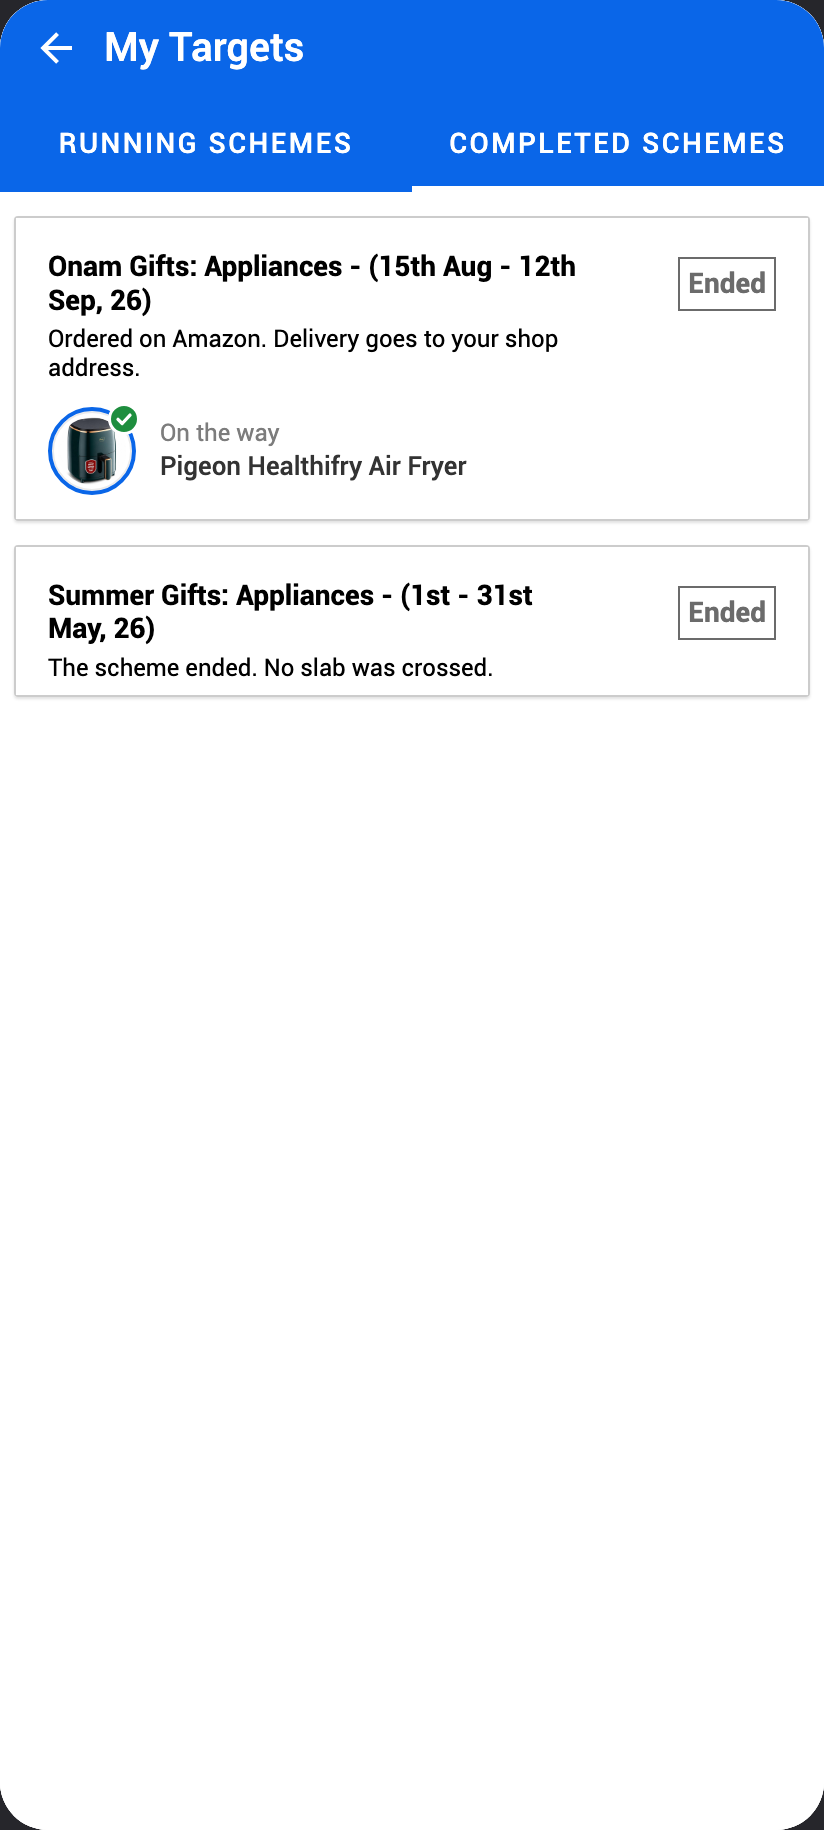
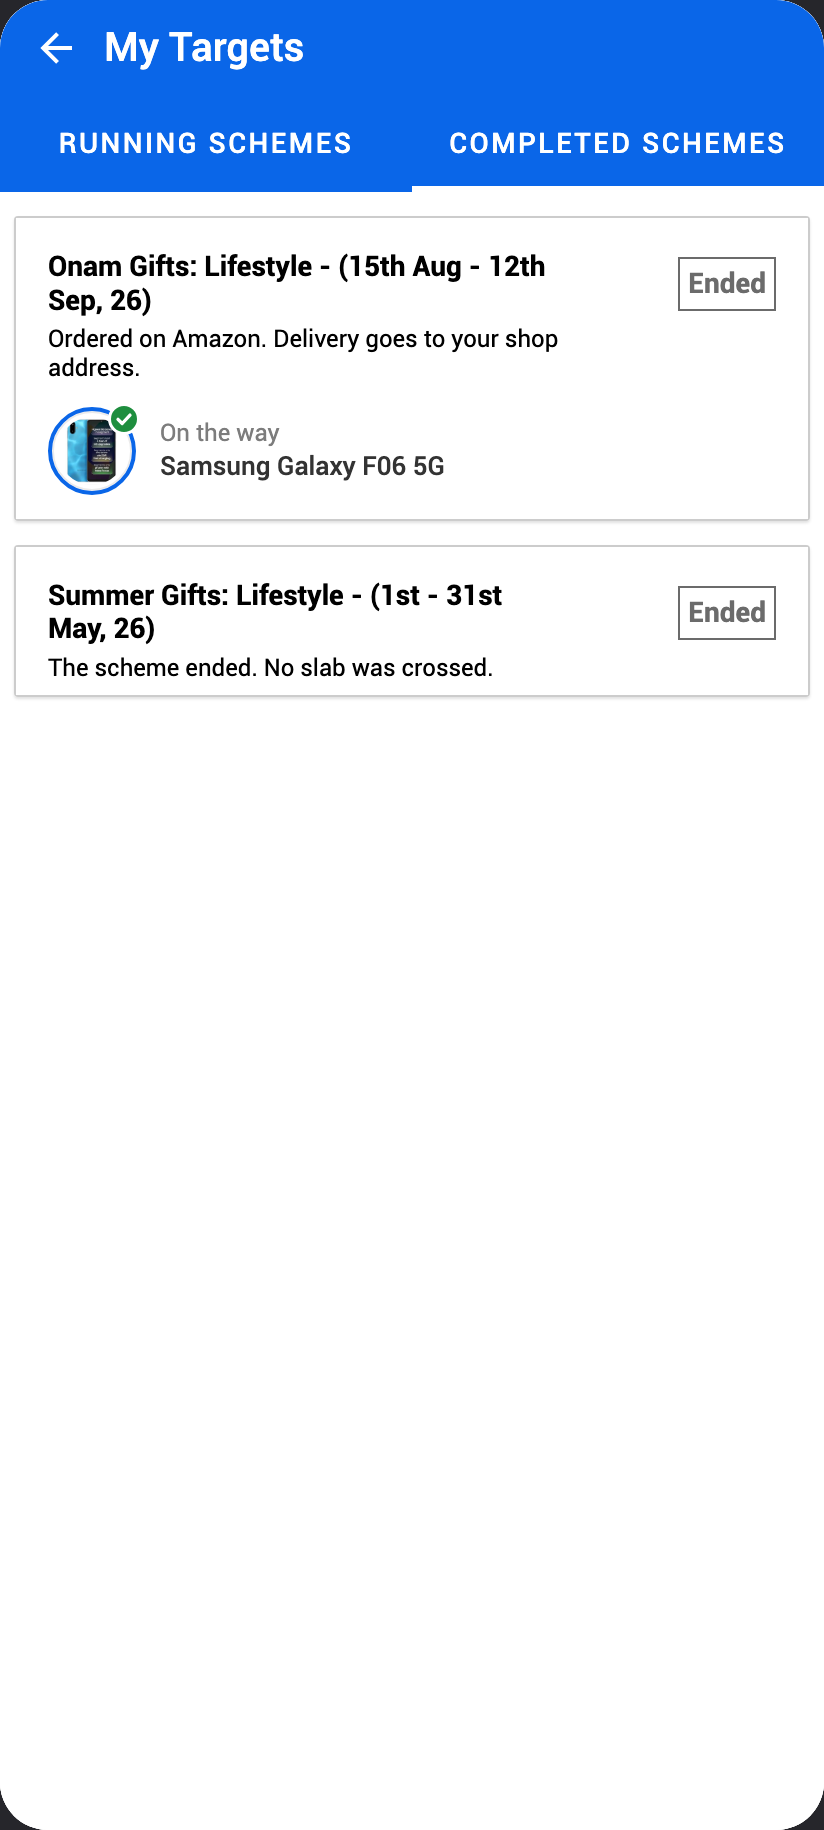
Cohort views, sheet-priced ladders, real gift photos, rail and title polish
- One customer, one scheme: four cohort views (/ship?cohort=...) carved from
  the gift sheet's own ladders; cohort names never render in customer copy
- Real Amazon photos for Kettle, Brillia Watch and Godrej Microwave, each
  verified against its product title; Bosch 207L keeps its glyph (no match)
- Rail: slab value against the line, ₹0 start label, last column flush,
  flag/value/photo/name on one exact x; runner replaces the standing man
- Passed gifts drop the grey check (dimmed photo alone says out-of-play)
- Titles wrap to two lines with an orphan guard; ₹1.2Cr crore formatting

diff --git a/src/ship/data.js b/src/ship/data.js
@@ -1,26 +1,38 @@
-// Shippable cut of the Mega Diwali campaign, per the business decision:
-//   - the big ladder is broken into MULTIPLE schemes, each with AT MOST 3 gifts
-//   - each scheme goes to the customers its BG inclusion targets, so a member sees
-//     only the schemes relevant to them
-// This member is targeted with two running schemes carved from the Lifestyle ladder:
-// an appliances scheme (2L/5L/10L) and a bumper scheme for the big slabs (20L/30L/40L).
-// Each scheme tracks its own scope, so the two current values differ.
+// Shippable cut, per the business decision:
+//   - ONE customer maps to ONE running scheme. Targeting picks the scheme whose slabs
+//     fit the customer's buying, so a small shopkeeper sees a ladder up to ₹1L and a
+//     large one sees ₹20L-₹40L.
+//   - Each scheme has AT MOST 3 gifts.
+//   - The COHORT IS A TARGETING ARTIFACT, NEVER CUSTOMER-FACING COPY. No card ever
+//     says "Starter": every customer just sees "Diwali Gifts: Appliances" with slabs
+//     and gifts sized to them.
+//
+// Four demo cohorts, one view each (/ship?cohort=...), carved from the campaign's own
+// gift sheet ("Final Working for Mega Diwali Scheme.xlsx", Final Gift Summary): the
+// slab-to-gift pricing is the sheet's, never invented here. Starter takes the
+// Electronics ladder's low end; the other three are consecutive windows of the
+// Lifestyle ladder up to the iPhone 17 (a 2-gift ladder, which the layout allows).
+// Every cohort carries the same journey: one running Diwali scheme, the announced New
+// Year scheme, and a history of one won-and-ordered plus one missed scheme. The
+// running states differ on purpose, so the four views also demo LIVE, EARNED and
+// NEAR_SLAB without inventing extra schemes.
 import { giftSchemeNode, LADDERS, NOW } from '../gifts/data';
 import { C } from '../theme';
 import { SOLV } from '../gifts/solv';
 
 const L = 100000;
-const LIFESTYLE = LADDERS[0];
 
-// A scheme's scope label rides on a ladder copy; the tiers stay the campaign's own.
-const scoped = (label) => ({ key: 'lifestyle', label, tiers: LIFESTYLE.tiers });
+// The sheet's own ladders. A cohort scheme is a slab window over one of them, so
+// every gift keeps the slab the sheet priced it at.
+const LIFESTYLE = { key: 'lifestyle', label: 'Lifestyle', tiers: LADDERS[0].tiers };
+const ELECTRONICS = { key: 'electronics', label: 'Electronics', tiers: LADDERS[1].tiers };
 
-function scheme({ id, name, windowLabel, scope, slabs, currentValue, included, excluded = [], now = NOW, fulfilment = {}, startTime, endTime, startLabel, endLabel }) {
+function scheme({ id, name, windowLabel, ladder, slabs, currentValue, included, excluded = [], now = NOW, fulfilment = {}, startTime, endTime, startLabel, endLabel }) {
   const node = giftSchemeNode({
     id,
     name,
     windowLabel,
-    ladder: scoped(scope),
+    ladder,
     slabsInLakhs: slabs,
     currentValue,
     now,
@@ -37,76 +49,119 @@ function scheme({ id, name, windowLabel, scope, slabs, currentValue, included, e
   return { node, included, excluded };
 }
 
-export const SHIP_RUNNING = [
-  scheme({
-    id: 'SHIP-DIWALI-APPL',
-    name: 'Diwali Gifts',
-    windowLabel: '1st Oct - 9th Nov, 26',
-    scope: 'Appliances',
-    slabs: [2, 5, 10],
-    currentValue: 6.4 * L,
-    included: ['Home & Kitchen Appliances'],
-    excluded: ['Consumer Electronics'],
-  }),
-  scheme({
-    id: 'SHIP-DIWALI-BUMPER',
-    name: 'Diwali Bumper',
-    windowLabel: '1st Oct - 9th Nov, 26',
-    scope: 'All Products',
-    slabs: [20, 30, 40],
-    currentValue: 3.1 * L,
-    included: ['All Products'],
-    excluded: ['Sugar', 'Edible Oil'],
-  }),
-];
+// One cohort's full journey at its own scale.
+function cohortJourney({ key, ladder, slabs, running, onam, summer, included, excluded = [] }) {
+  const shared = { ladder, slabs, included, excluded };
+  return {
+    running: [
+      scheme({
+        ...shared,
+        id: `SHIP-${key}-DIWALI`,
+        name: 'Diwali Gifts',
+        windowLabel: '1st Oct - 9th Nov, 26',
+        currentValue: running,
+      }),
+      scheme({
+        ...shared,
+        id: `SHIP-${key}-NEWYEAR`,
+        name: 'New Year Gifts',
+        windowLabel: '15th Nov - 31st Dec, 26',
+        currentValue: 0,
+        startTime: Date.UTC(2026, 10, 15),
+        endTime: Date.UTC(2026, 11, 31),
+        startLabel: '15 Nov 2026',
+        endLabel: '31 Dec 2026',
+      }),
+    ],
+    completed: [
+      scheme({
+        ...shared,
+        id: `SHIP-${key}-ONAM`,
+        name: 'Onam Gifts',
+        windowLabel: '15th Aug - 12th Sep, 26',
+        currentValue: onam,
+        startTime: Date.UTC(2026, 7, 15),
+        endTime: Date.UTC(2026, 8, 12),
+        startLabel: '15 Aug 2026',
+        endLabel: '12 Sep 2026',
+        fulfilment: { orderedAt: Date.UTC(2026, 8, 16) },
+      }),
+      scheme({
+        ...shared,
+        id: `SHIP-${key}-SUMMER`,
+        name: 'Summer Gifts',
+        windowLabel: '1st - 31st May, 26',
+        currentValue: summer,
+        startTime: Date.UTC(2026, 4, 1),
+        endTime: Date.UTC(2026, 4, 31),
+        startLabel: '1 May 2026',
+        endLabel: '31 May 2026',
+      }),
+    ],
+  };
+}
 
-// An announced scheme: the window opens 15 Nov, so the list primes the customer and
-// the detail page reads as a catalogue with no amounts to act on yet.
-export const SHIP_SCHEDULED = scheme({
-  id: 'SHIP-NEWYEAR-APPL',
-  name: 'New Year Gifts',
-  windowLabel: '15th Nov - 31st Dec, 26',
-  scope: 'Appliances',
-  slabs: [2, 5, 10],
-  currentValue: 0,
-  included: ['Home & Kitchen Appliances'],
-  startTime: Date.UTC(2026, 10, 15),
-  endTime: Date.UTC(2026, 11, 31),
-  startLabel: '15 Nov 2026',
-  endLabel: '31 Dec 2026',
-});
-SHIP_RUNNING.push(SHIP_SCHEDULED);
+// The four cohorts. `label` is DEMO CHROME ONLY (drawer rows, docs); it never renders
+// inside the customer's own screens.
+export const SHIP_COHORTS = {
+  starter: {
+    label: 'Starter — ₹1L/₹2L/₹5L: Kettle, Watch, Air Fryer (Electronics ladder)',
+    ...cohortJourney({
+      key: 'STARTER',
+      ladder: ELECTRONICS,
+      slabs: [1, 2, 5],
+      running: 1.4 * L,    // EARNED: holds the kettle, ₹60,000 to the watch
+      onam: 1.2 * L,       // won the kettle, order placed
+      summer: 0.4 * L,     // ended below the first slab
+      included: ['Consumer Electronics'],
+    }),
+  },
+  growth: {
+    label: 'Growth — ₹2L/₹5L/₹10L: Mixer, Air Fryer, Soundbar',
+    ...cohortJourney({
+      key: 'GROWTH',
+      ladder: LIFESTYLE,
+      slabs: [2, 5, 10],
+      running: 6.4 * L,    // EARNED: holds the air fryer, ₹3.6L to the soundbar
+      onam: 2.3 * L,       // won the mixer, order placed
+      summer: 1.2 * L,
+      included: ['Lifestyle'],
+      excluded: ['Consumer Electronics'],
+    }),
+  },
+  established: {
+    label: 'Established — ₹15L/₹20L/₹30L: Vacuum, Phone, Fridge',
+    ...cohortJourney({
+      key: 'ESTABLISHED',
+      ladder: LIFESTYLE,
+      slabs: [15, 20, 30],
+      running: 12.8 * L,   // LIVE: nothing crossed yet, ₹2.2L to the vacuum
+      onam: 21 * L,        // won the phone, order placed
+      summer: 6 * L,
+      included: ['Lifestyle'],
+      excluded: ['Consumer Electronics'],
+    }),
+  },
+  bumper: {
+    label: 'Bumper — ₹40L/₹1.2Cr: Smart TV, iPhone 17 (2-gift ladder)',
+    ...cohortJourney({
+      key: 'BUMPER',
+      ladder: LIFESTYLE,
+      slabs: [40, 120],
+      running: 38.5 * L,   // LIVE, close: ₹1.5L to the first slab (Smart TV)
+      onam: 43 * L,        // won the Smart TV, order placed
+      summer: 12 * L,
+      included: ['Lifestyle'],
+      excluded: ['Consumer Electronics'],
+    }),
+  },
+};
 
-export const SHIP_COMPLETED = [
-  scheme({
-    id: 'SHIP-ONAM-APPL',
-    name: 'Onam Gifts',
-    windowLabel: '15th Aug - 12th Sep, 26',
-    scope: 'Appliances',
-    slabs: [2, 5, 10],
-    currentValue: 5.6 * L,
-    included: ['Home & Kitchen Appliances'],
-    startTime: Date.UTC(2026, 7, 15),
-    endTime: Date.UTC(2026, 8, 12),
-    startLabel: '15 Aug 2026',
-    endLabel: '12 Sep 2026',
-    fulfilment: { orderedAt: Date.UTC(2026, 8, 16) },
-  }),
-  scheme({
-    id: 'SHIP-SUMMER-APPL',
-    name: 'Summer Gifts',
-    windowLabel: '1st - 31st May, 26',
-    scope: 'Appliances',
-    slabs: [2, 5, 10],
-    currentValue: 1.2 * L,
-    included: ['Home & Kitchen Appliances'],
-    startTime: Date.UTC(2026, 4, 1),
-    endTime: Date.UTC(2026, 4, 31),
-    startLabel: '1 May 2026',
-    endLabel: '31 May 2026',
-  }),
-];
+export const DEFAULT_COHORT = 'established';
 
+// Route lookup across every cohort's schemes, so any card opens its detail.
 export const SHIP_BY_ID = Object.fromEntries(
-  [...SHIP_RUNNING, ...SHIP_COMPLETED].map((x) => [x.node.entityId, x])
+  Object.values(SHIP_COHORTS)
+    .flatMap((c) => [...c.running, ...c.completed])
+    .map((x) => [x.node.entityId, x])
 );

diff --git a/src/gifts/data.js b/src/gifts/data.js
@@ -29,8 +29,8 @@ export const MEMBER = { ladderKey: 'lifestyle' };
 
 // Product photos, pulled from the product pages linked in the sheet
 // (m.media-amazon.com / rukminim2.flixcart.com), stored as local assets.
-// Electronics-only gifts (kettle, watch, microwave, Bosch fridge) have no
-// image yet; those tiers fall back to the line glyph.
+// The Bosch 207 L has no verified photo (Amazon lists newer capacities only), so
+// that tier keeps its line glyph rather than wearing another fridge's picture.
 const IMG = {
   mixer: require('../../assets/gifts/mixer.jpg'),
   airfryer: require('../../assets/gifts/airfryer.jpg'),
@@ -40,6 +40,9 @@ const IMG = {
   fridge: require('../../assets/gifts/fridge.jpg'),
   tv: require('../../assets/gifts/tv.jpg'),
   iphone17: require('../../assets/gifts/iphone17.jpg'),
+  kettle: require('../../assets/gifts/kettle.jpg'),
+  watch: require('../../assets/gifts/watch.jpg'),
+  microwave: require('../../assets/gifts/microwave.jpg'),
 };
 
 // Full ladders, as in the sheet. shortName must stay short: it renders in 100dp markers.
@@ -68,11 +71,11 @@ export const LADDERS = [
     label: 'Electronics',
     scopeLine: 'Electronics products only',
     tiers: [
-      { at: 1 * L,   name: 'Pigeon Amaze Plus Electric Kettle', shortName: 'Kettle', icon: 'kettle', image: null },
-      { at: 2 * L,   name: 'Fire-Boltt Brillia Smart Watch', shortName: 'Watch',    icon: 'watch',   image: null },
+      { at: 1 * L,   name: 'Pigeon Amaze Plus Electric Kettle', shortName: 'Kettle', icon: 'kettle', image: IMG.kettle },
+      { at: 2 * L,   name: 'Fire-Boltt Brillia Smart Watch', shortName: 'Watch',    icon: 'watch',   image: IMG.watch },
       { at: 5 * L,   name: 'Pigeon Healthifry Air Fryer',   shortName: 'Air Fryer', icon: 'airfryer', image: IMG.airfryer },
       { at: 10 * L,  name: 'boAt Aavante Bar Soundbar',     shortName: 'Soundbar',  icon: 'soundbar', image: IMG.soundbar },
-      { at: 15 * L,  name: 'Godrej 20 L Solo Microwave Oven', shortName: 'Microwave', icon: 'microwave', image: null },
+      { at: 15 * L,  name: 'Godrej 20 L Solo Microwave Oven', shortName: 'Microwave', icon: 'microwave', image: IMG.microwave },
       { at: 20 * L,  name: 'Philips PowerPro Vacuum Cleaner', shortName: 'Vacuum',  icon: 'vacuum',  image: IMG.vacuum },
       { at: 30 * L,  name: 'Samsung Galaxy F06 5G',         shortName: 'Phone',     icon: 'phone',   image: IMG.phone },
       { at: 40 * L,  name: 'Bosch 207 L Refrigerator',      shortName: 'Fridge',    icon: 'fridge',  image: null },
@@ -88,6 +91,11 @@ export function lakh(v) {
   // Below a lakh the compact form reads worse than the number: "₹0.4L" and "₹0L" are
   // both harder to parse than "₹40,000" and "₹0". Fall back to the plain format.
   if (v < L) return indianPrice(v);
+  // From a crore up, the trade says crore: "₹1.2Cr", never "₹120L".
+  if (v >= 100 * L) {
+    const c = Math.round((v / (100 * L)) * 100) / 100;
+    return '₹' + String(c) + 'Cr';
+  }
   const n = Math.round((v / L) * 100) / 100;
   return '₹' + String(n) + 'L';
 }

diff --git a/src/ship/GiftMedallion.js b/src/ship/GiftMedallion.js
@@ -2,10 +2,11 @@
 // bar where a flag used to be. Reference: Shopee's task track (reward badges on the
 // bar), Ulta's tick labels. THREE states, because the scheme pays one gift and the
 // medallions must say which:
-//   won     blue ring, GREEN check, full photo. The gift going home. Exactly one
-//           green check per card; the single check quietly is the one-gift rule.
-//   passed  grey ring, grey check, photo dimmed. Crossed, then out-climbed: real,
-//           but out of play. Dimming is correct here; desire moved up the ladder.
+//   won     blue ring, GREEN check, full photo. The gift going home. The check is
+//           the card's ONLY badge, so the badge itself is the one-gift rule.
+//   passed  grey ring, photo dimmed, NO badge. Crossed, then out-climbed. Dimming
+//           alone says out-of-play; any checkmark near a gift whispers "you get
+//           this", so the passed state carries none.
 //   open    grey ring, FULL-COLOUR photo, no badge. Still worth wanting, so it is
 //           never washed out.
 // A tier without a photo falls back to its line glyph, same ring rules.
@@ -56,8 +57,8 @@ export default function GiftMedallion({ tier, state, achieved, size = 44, dark =
           style={[styles.photoOutline, { borderRadius: size / 2 }]}
         />
       </View>
-      {st !== 'open' ? (
-        <View style={[styles.badge, st === 'passed' && styles.badgePassed]}>
+      {st === 'won' ? (
+        <View style={styles.badge}>
           <Svg width={9} height={9} viewBox="0 0 12 12">
             <Path d="M2 6.2l2.8 2.8L10 3.4" stroke="#fff" strokeWidth={2.2} strokeLinecap="round" strokeLinejoin="round" fill="none" />
           </Svg>
@@ -97,5 +98,4 @@ const styles = StyleSheet.create({
     alignItems: 'center',
     justifyContent: 'center',
   },
-  badgePassed: { backgroundColor: '#ABABAB' },
 });

diff --git a/app/ship/index.js b/app/ship/index.js
@@ -12,11 +12,15 @@ import ShipSchemeCard from '../../src/ship/ShipSchemeCard';
 import { C, D, F } from '../../src/theme';
 import { SOLV } from '../../src/gifts/solv';
 import { M } from '../../src/data';
-import { SHIP_RUNNING, SHIP_COMPLETED } from '../../src/ship/data';
+import { SHIP_COHORTS, DEFAULT_COHORT } from '../../src/ship/data';
 
 export default function ShipTargets() {
   const pager = useRef(null);
   const params = useLocalSearchParams();
+  // One customer sees one scheme; ?cohort= picks whose view the demo renders.
+  // The cohort never appears inside the screen itself.
+  const cohort = SHIP_COHORTS[params.cohort] ? params.cohort : DEFAULT_COHORT;
+  const { running, completed } = SHIP_COHORTS[cohort];
   const initialTab = Number(params.tab) === 1 ? 1 : 0;
   const [tab, setTab] = useState(initialTab);
   const [pageW, setPageW] = useState(0);
@@ -79,8 +83,8 @@ export default function ShipTargets() {
         onMomentumScrollEnd={(e) => (pageW ? setTab(Math.round(e.nativeEvent.contentOffset.x / pageW)) : null)}
         style={{ flex: 1 }}
       >
-        {renderList(SHIP_RUNNING, true)}
-        {renderList(SHIP_COMPLETED)}
+        {renderList(running, true)}
+        {renderList(completed)}
       </ScrollView>
     </SafeAreaView>
   );

diff --git a/app/index.js b/app/index.js
@@ -48,7 +48,10 @@ const OTHER = [
 //                        -> /solv-schemes/states
 // The entry-point mocks stay a separate row because they sit outside both lists.
 const GIFT_FLOWS = [
-  ['SHIP: gift targets on the current UI, photo rail', '/ship'],
+  ['SHIP view: Starter cohort, ₹1L to ₹5L', '/ship?cohort=starter'],
+  ['SHIP view: Growth cohort, ₹2L to ₹10L', '/ship?cohort=growth'],
+  ['SHIP view: Established cohort, ₹15L to ₹30L', '/ship?cohort=established'],
+  ['SHIP view: Bumper cohort, ₹40L to ₹1.2Cr', '/ship?cohort=bumper'],
   ['A. Gift scheme in the current paradigm', '/gift-targets'],
   ['B. Solv My Schemes, Mega Diwali and parallel schemes', '/solv-schemes'],
   ['C. Entry points (banner, PDP, cart, push, WhatsApp)', '/mega-diwali/entries'],

diff --git a/ship-handoff/README-HANDOFF.md b/ship-handoff/README-HANDOFF.md
@@ -72,11 +72,16 @@ Colour, one meaning each:
 - Grey: not yet, or past tense.
 
 Medallion states (the scheme pays ONE gift; the medallions must say which):
-- won     highest crossed slab: blue ring, GREEN check, full photo. Exactly one green
-          check per card; the single check is the one-gift rule made visible.
-- passed  crossed, then out-climbed: grey ring, grey check, photo dimmed to 50%.
+- won     highest crossed slab: blue ring, GREEN check, full photo. The check is the
+          card's ONLY badge, so the badge itself is the one-gift rule.
+- passed  crossed, then out-climbed: grey ring, photo dimmed to 50%, NO badge.
+          Any checkmark near a gift whispers "you get this", so passed carries none.
 - open    not yet crossed: grey ring, FULL-COLOUR photo, no badge. Never washed out.
-Two green checks on one card would read as "you get both" and become a support call.
+Two checks on one card would read as "you get both" and become a support call.
+
+Cohort mapping: ONE customer maps to ONE running scheme, slabs priced to the
+customer (demo views: /ship?cohort=starter|growth|established|bumper). The cohort
+name is a targeting artifact and never renders in customer-facing copy.
 
 Copy, one shape each:
 - Running distance: "₹3,60,000 more". Ended distance: "Needed ₹80,000 more".
